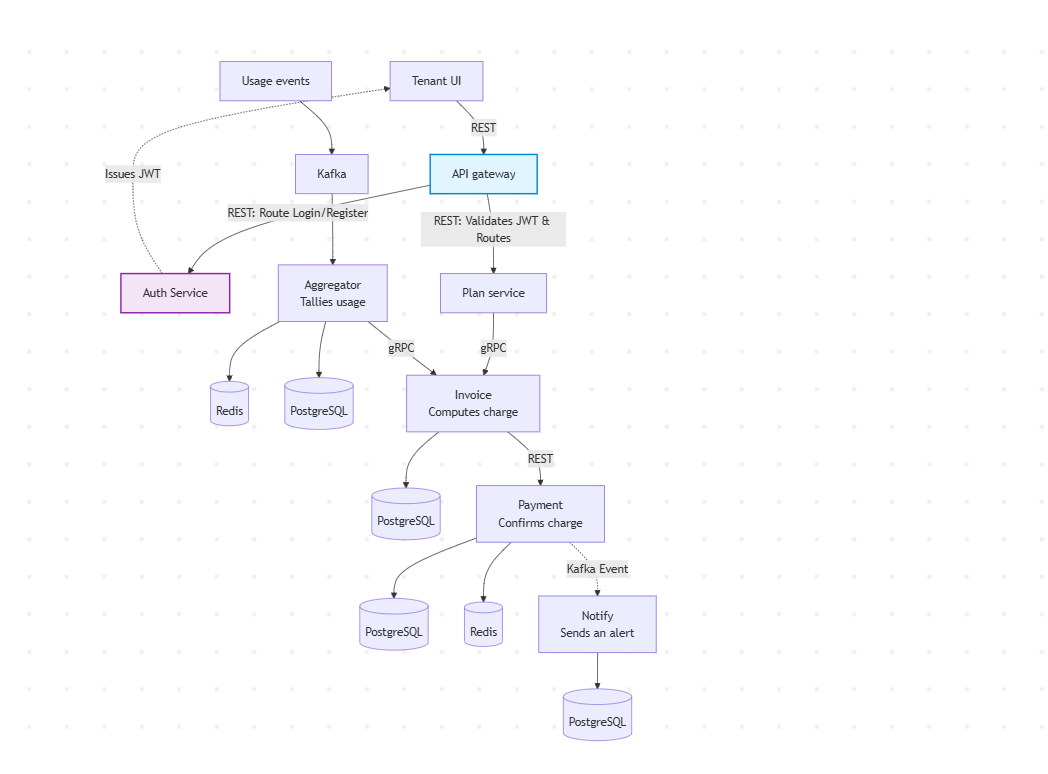
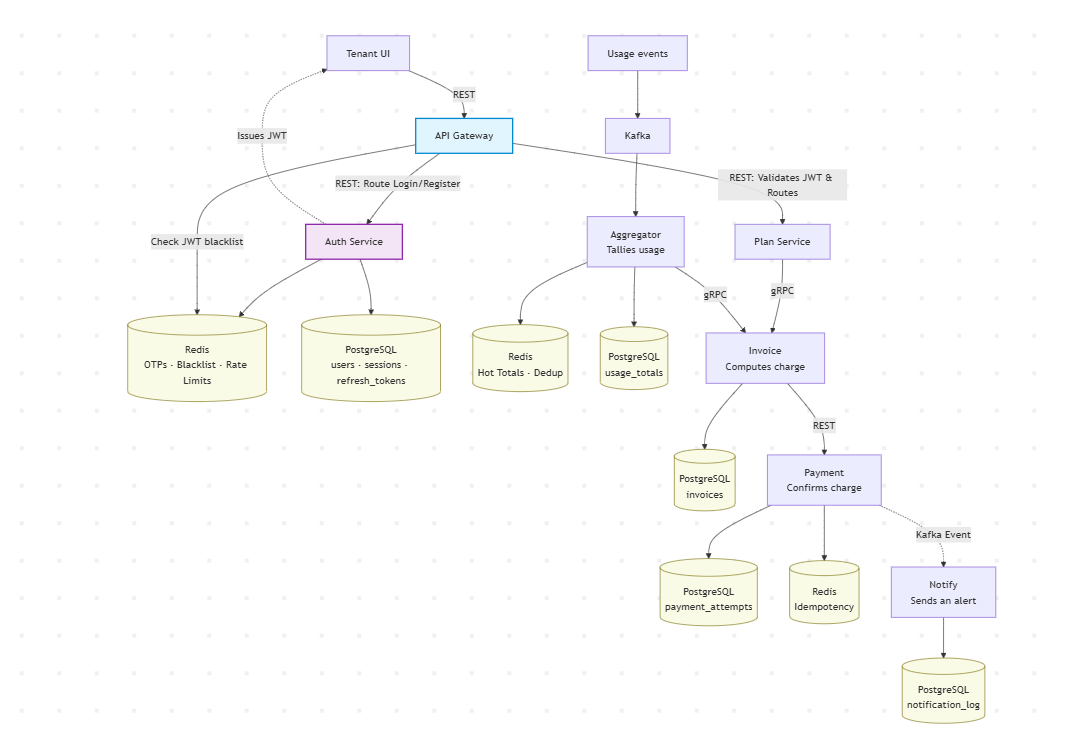
docs: initialize project architecture documentation and design artifacts

diff --git a/docs/DATA_MODEL.md b/docs/DATA_MODEL.md
@@ -1,0 +1,201 @@
+# Data Model — Auth Service
+
+> Designed by the developer after R&D.
+> Covers: PostgreSQL schema, Redis key design, ERDs, and the Forgot Password flow.
+> This document is the source of truth for all tables and keys owned by the `auth` schema.
+
+---
+
+## Design Philosophy — What Lives Where
+
+| Data Type | Storage | Reason |
+|---|---|---|
+| User identity, sessions, tokens | PostgreSQL | Permanent, relational, needs ACID |
+| OTPs, rate limits, JWT blacklist | Redis | Temporary, auto-expiry, fast |
+
+---
+
+## Redis Design
+
+### Why Redis for OTPs
+
+Think of Redis like a **whiteboard with a timer**. You write something on it, set a countdown, and it erases itself automatically. PostgreSQL is a filing cabinet — great for permanent records, overkill for a 10-minute OTP.
+
+| Concern | PostgreSQL | Redis |
+|---|---|---|
+| Auto-expiry | You query `expires_at > NOW()` manually | TTL built-in, key deletes itself |
+| Speed | Disk-based, slower | In-memory, microseconds |
+| Cleanup job needed | Yes, old rows pile up | No, Redis handles it |
+| OTP attempt count | Extra column + update query | `INCR` command, atomic |
+| Right tool for temp data | No | Yes |
+
+### Redis Key Reference Table
+
+| Key | Value | TTL | Purpose |
+|---|---|---|---|
+| `otp:pwd_reset:{userId}` | bcrypt hash of OTP | 10 min | Password reset OTP |
+| `otp:pwd_reset:{userId}:attempts` | integer count | 10 min | Wrong attempt counter |
+| `otp:email_verify:{userId}` | bcrypt hash of OTP | 24 hrs | Email verification OTP |
+| `otp:email_verify:{userId}:attempts` | integer count | 24 hrs | Wrong attempt counter |
+| `rate_limit:{userId}:otp` | `1` | 2 min | Resend throttle (NX flag) |
+| `blacklist:access:{jti}` | `1` | remaining JWT lifetime | Logout / token revocation |
+
+Consistent prefix pattern (`otp:`, `rate_limit:`, `blacklist:`) makes it easy to scan, debug, and set different eviction policies per prefix if needed.
+
+### How Each Key Works
+
+**OTP storage** — Stored as a bcrypt hash (never raw). On resend, same key is overwritten.
+```
+SET otp:pwd_reset:{userId}  "$2a$10$hashedOtpHere"  EX 600
+```
+
+**Attempt counter** — INCR is atomic. No race conditions.
+```
+INCR otp:pwd_reset:{userId}:attempts   ← each wrong attempt
+GET  otp:pwd_reset:{userId}:attempts   ← check if >= 5
+```
+
+**Rate limiter** — NX = only set if key does NOT exist.
+```
+SET rate_limit:{userId}:otp  1  EX 120  NX
+```
+- First request within 2 min → key doesn't exist → allow
+- Second request within 2 min → key exists → 429 Too Many Requests
+
+**JWT blacklist** — Stores the `jti` (JWT ID) of a logged-out token. TTL = exact remaining seconds on the JWT so no memory is wasted.
+```
+SET blacklist:access:{jti}  1  EX {remaining_seconds}
+```
+
+---
+
+## PostgreSQL Schema (`auth` schema)
+
+> ⚠️ **Note:** `password_reset_otps` and `email_verification_otps` tables do NOT exist.
+> Redis owns all OTP data. PostgreSQL only holds permanent records.
+
+```sql
+-- Core identity
+CREATE TABLE users (
+    id                UUID         PRIMARY KEY DEFAULT gen_random_uuid(),
+    username          VARCHAR(50)  NOT NULL UNIQUE,
+    email             VARCHAR(255) NOT NULL UNIQUE,
+    password_hash     VARCHAR(255) NOT NULL,
+    tenant_id         VARCHAR(100) NOT NULL,           -- Multi-tenant: which tenant this user belongs to
+    role              VARCHAR(50)  NOT NULL,            -- 'PLATFORM_ADMIN' or 'TENANT_ADMIN'
+    is_email_verified BOOLEAN      NOT NULL DEFAULT FALSE,
+    is_active         BOOLEAN      NOT NULL DEFAULT TRUE,
+    created_at        TIMESTAMP    NOT NULL DEFAULT NOW(),
+    updated_at        TIMESTAMP    NOT NULL DEFAULT NOW()
+);
+
+-- Long-lived login tokens, one per device
+CREATE TABLE refresh_tokens (
+    id           UUID         PRIMARY KEY DEFAULT gen_random_uuid(),
+    user_id      UUID         NOT NULL REFERENCES users(id),
+    token_hash   VARCHAR(255) NOT NULL,
+    device_info  VARCHAR(255),
+    ip_address   VARCHAR(50),
+    is_revoked   BOOLEAN      NOT NULL DEFAULT FALSE,
+    expires_at   TIMESTAMP    NOT NULL,
+    created_at   TIMESTAMP    NOT NULL DEFAULT NOW()
+);
+
+-- Active login sessions (one per device per user)
+CREATE TABLE sessions (
+    id               UUID         PRIMARY KEY DEFAULT gen_random_uuid(),
+    user_id          UUID         NOT NULL REFERENCES users(id),
+    refresh_token_id UUID         NOT NULL REFERENCES refresh_tokens(id),
+    user_agent       VARCHAR(500),
+    ip_address       VARCHAR(50),
+    last_active_at   TIMESTAMP    NOT NULL DEFAULT NOW(),
+    created_at       TIMESTAMP    NOT NULL DEFAULT NOW()
+);
+
+-- Issued after OTP verified — gates the actual password change
+CREATE TABLE password_reset_sessions (
+    id                 UUID         PRIMARY KEY DEFAULT gen_random_uuid(),
+    user_id            UUID         NOT NULL REFERENCES users(id),
+    session_token_hash VARCHAR(255) NOT NULL,
+    is_used            BOOLEAN      NOT NULL DEFAULT FALSE,
+    expires_at         TIMESTAMP    NOT NULL,  -- 15 minutes
+    created_at         TIMESTAMP    NOT NULL DEFAULT NOW()
+);
+```
+
+### ERD — PostgreSQL
+
+```mermaid
+erDiagram
+  users {
+    uuid id PK
+    varchar username UK
+    varchar email UK
+    varchar password_hash
+    varchar tenant_id
+    varchar role
+    boolean is_email_verified
+    boolean is_active
+    timestamp created_at
+    timestamp updated_at
+  }
+
+  refresh_tokens {
+    uuid id PK
+    uuid user_id FK
+    varchar token_hash
+    varchar device_info
+    varchar ip_address
+    boolean is_revoked
+    timestamp expires_at
+    timestamp created_at
+  }
+
+  sessions {
+    uuid id PK
+    uuid user_id FK
+    uuid refresh_token_id FK
+    varchar user_agent
+    varchar ip_address
+    timestamp last_active_at
+    timestamp created_at
+  }
+
+  password_reset_sessions {
+    uuid id PK
+    uuid user_id FK
+    varchar session_token_hash
+    boolean is_used
+    timestamp expires_at
+    timestamp created_at
+  }
+
+  users ||--o{ refresh_tokens : "has"
+  users ||--o{ sessions : "has"
+  users ||--o{ password_reset_sessions : "has"
+  refresh_tokens ||--o| sessions : "linked to"
+```
+
+---
+
+## Forgot Password Flow
+
+**Step 1** — `POST /auth/forgot-password` → body: `{ username }`
+- Look up user by username → get their email
+- Generate 6-digit OTP → hash it → store in Redis with 10 min TTL
+- Send OTP to user's email
+- Response: `{ message: "OTP sent" }` — never reveal the email in response
+
+**Step 2** — `POST /auth/verify-otp` → body: `{ username, otp }`
+- Fetch `otp:pwd_reset:{userId}` from Redis
+- Hash submitted OTP → compare with stored hash
+- If wrong: `INCR` attempts counter → if `>= 5` delete both keys (force resend)
+- If correct: delete both keys → generate `reset_session_token` → store hash in `password_reset_sessions` (15 min)
+- Response: `{ reset_session_token: "raw-token" }`
+
+**Step 3** — `POST /auth/reset-password` → body: `{ reset_session_token, new_password }`
+- Look up `password_reset_sessions` by token hash → verify not used and not expired
+- Hash new password → `UPDATE users SET password_hash = ?`
+- Mark session token as `is_used = true`
+- Revoke all refresh tokens for this user (force logout everywhere)
+- Response: `{ message: "Password updated" }`

diff --git a/docs/DECISIONS.md b/docs/DECISIONS.md
@@ -357,5 +357,84 @@ Use **Flyway** for all database schema migrations in production and shared envir
 
 ---
 
+## ADR-014 — OTP Storage: Redis (not PostgreSQL)
+
+**Date:** June 2026
+**Status:** ✅ Accepted
+
+### Decision
+All OTP data (password reset OTPs, email verification OTPs, attempt counters) is stored in Redis — not in PostgreSQL tables.
+
+### Reasoning
+- OTPs are inherently temporary. Redis TTL handles expiry automatically — no cleanup job needed.
+- Attempt counters use Redis `INCR`, which is atomic — no race conditions.
+- PostgreSQL would require a cleanup job, an `expires_at` query on every check, and extra columns.
+- Redis is the right tool for short-lived, high-speed, auto-expiring data.
+
+### Rejected Alternatives
+- **PostgreSQL `otps` table:** Rejected — overkill for temporary data. Requires manual cleanup and is slower.
+
+---
+
+## ADR-015 — JWT Revocation: Redis Blacklist via JTI
+
+**Date:** June 2026
+**Status:** ✅ Accepted
+
+### Decision
+On logout, store the JWT's `jti` (JWT ID) in Redis with a TTL equal to the token's remaining lifetime. Every request checks if the `jti` is blacklisted before trusting the token.
+
+### Reasoning
+- JWTs are stateless by nature — once issued, they're valid until expiry. Without a revocation mechanism, a stolen or logged-out token can still be used.
+- Storing only the `jti` (not the full token) is memory-efficient.
+- TTL = remaining lifetime = zero wasted memory after the token would have expired naturally.
+- This is the industry-standard pattern for JWT logout in stateless systems.
+
+### Consequences
+- The API Gateway must check Redis blacklist on every authenticated request (one `GET` call — sub-millisecond).
+- This adds a tiny Redis dependency to the Gateway, but it's necessary for proper security.
+
+---
+
+## ADR-016 — Refresh Token + Session Management
+
+**Date:** June 2026
+**Status:** ✅ Accepted
+
+### Decision
+Implement long-lived refresh tokens stored in the `refresh_tokens` table (one per device), paired with active session tracking in the `sessions` table.
+
+### Reasoning
+- Short-lived access tokens (15-30 min) + long-lived refresh tokens is the industry standard.
+- Storing `device_info` and `ip_address` enables per-device logout and suspicious login detection.
+- `is_revoked` flag allows targeted revocation (e.g., logout from all devices on password reset).
+- Sessions table tracks `last_active_at` for 25k+ user activity monitoring.
+
+### Consequences
+- On password reset, all refresh tokens for the user are revoked — forces re-login on all devices.
+- Refresh token rotation can be added as a future enhancement (v2).
+
+---
+
+## ADR-017 — Password Reset: Three-Step Flow with Session Token
+
+**Date:** June 2026
+**Status:** ✅ Accepted
+
+### Decision
+Password reset uses a 3-step flow: (1) Request OTP → (2) Verify OTP → get a short-lived `reset_session_token` → (3) Use token to set new password.
+
+### Reasoning
+- Combining OTP verification and password change in one step is less secure. An attacker who intercepts the OTP can immediately change the password.
+- The intermediate `password_reset_sessions` token gates the actual password change — it's a one-time-use token valid for 15 minutes only.
+- `is_used = true` flag prevents replay attacks.
+- This mirrors how Stripe, GitHub, and other production systems handle password resets.
+
+### Consequences
+- Three API endpoints are required: `/auth/forgot-password`, `/auth/verify-otp`, `/auth/reset-password`.
+- `password_reset_sessions` rows for used/expired tokens can be cleaned up by a scheduled job later.
+
+---
+
 *Add a new ADR every time a significant design decision is made.*
 *Even "we decided NOT to do X" decisions are worth recording.*

diff --git a/docs/ARCHITECTURE.md b/docs/ARCHITECTURE.md
@@ -56,36 +56,41 @@ its own subscription plan, and its own usage quotas.
 ```mermaid
 flowchart TD
     %% UI and Event Ingestion
-    UI[Tenant UI] -->|REST| GW[API gateway]
+    UI[Tenant UI] -->|REST| GW[API Gateway]
     Events[Usage events] --> K[Kafka]
 
-    %% NEW: Auth Service 
+    %% Auth Service — uses both Redis and PostgreSQL
     GW -->|REST: Route Login/Register| Auth[Auth Service]
     Auth -.->|Issues JWT| UI
+    Auth --> RedisAuth[(Redis\nOTPs · Blacklist · Rate Limits)]
+    Auth --> DBAuth[(PostgreSQL\nusers · sessions · refresh_tokens)]
 
     %% Core Services
-    GW -->|REST: Validates JWT & Routes| Plan[Plan service]
-    
+    GW -->|REST: Validates JWT & Routes| Plan[Plan Service]
+    GW -->|Check JWT blacklist| RedisAuth
+
     K --> Agg[Aggregator\nTallies usage]
-    Agg --> RedisAgg[(Redis)]
-    Agg --> DBAgg[(PostgreSQL)]
+    Agg --> RedisAgg[(Redis\nHot Totals · Dedup)]
+    Agg --> DBAgg[(PostgreSQL\nusage_totals)]
 
     Plan -->|gRPC| Inv[Invoice\nComputes charge]
     Agg -->|gRPC| Inv
-    Inv --> DBInv[(PostgreSQL)]
+    Inv --> DBInv[(PostgreSQL\ninvoices)]
 
     Inv -->|REST| Pay[Payment\nConfirms charge]
-    Pay --> DBPay[(PostgreSQL)]
-    Pay --> RedisPay[(Redis)]
+    Pay --> DBPay[(PostgreSQL\npayment_attempts)]
+    Pay --> RedisPay[(Redis\nIdempotency)]
 
     Pay -.->|Kafka Event| Notify[Notify\nSends an alert]
-    Notify --> DBNotif[(PostgreSQL)]
-    
+    Notify --> DBNotif[(PostgreSQL\nnotification_log)]
+
     %% Styling
     classDef gateway fill:#e1f5fe,stroke:#0288d1,stroke-width:2px;
-    classDef newService fill:#f3e5f5,stroke:#8e24aa,stroke-width:2px;
+    classDef authService fill:#f3e5f5,stroke:#8e24aa,stroke-width:2px;
+    classDef store fill:#f9fbe7,stroke:#827717,stroke-width:1px;
     class GW gateway;
-    class Auth newService;
+    class Auth authService;
+    class RedisAuth,DBAuth,RedisAgg,DBAgg,DBInv,DBPay,RedisPay,DBNotif store;
 ```
 
 ### Reading the diagram
@@ -142,9 +147,11 @@ Issues JWT on login/register        Plans, Subscriptions, State Machine
 ### 3.2 Auth Service
 | | |
 |---|---|
-| **Tech** | Java 21, Spring Boot 3.x, Spring Security, PostgreSQL |
+| **Tech** | Java 21, Spring Boot 3.x, Spring Security, PostgreSQL, Redis |
 | **Port** | 8085 (internal only) |
-| **Responsibilities** | User registration, login, JWT signing (HS256), password hashing (BCrypt) |
+| **Responsibilities** | User registration, login, JWT issuance (HS256 + `jti`), password hashing (BCrypt), email verification OTP, password reset (3-step flow), refresh token management, JWT blacklist on logout |
+| **PostgreSQL tables** | `users`, `refresh_tokens`, `sessions`, `password_reset_sessions` |
+| **Redis keys** | `otp:*` (OTPs), `blacklist:access:*` (JWT revocation), `rate_limit:*` (resend throttle) |
 | **Maven module** | `services/auth-service` |
 
 ### 3.3 Billing Service
@@ -359,7 +366,7 @@ Each service owns its own **schema** (logical isolation within the same PostgreS
 
 | Schema | Service | Key Tables |
 |---|---|---|
-| `auth` | Auth Service | `users` |
+| `auth` | Auth Service | `users`, `refresh_tokens`, `sessions`, `password_reset_sessions` |
 | `billing` | Billing Service | `plans`, `plan_versions`, `subscriptions`, `audit_logs` |
 | `usage` | Usage Aggregator | `usage_totals`, `usage_events_raw` (optional archive) |
 | `invoice` | Invoice Service | `invoices`, `invoice_line_items` |
@@ -371,9 +378,18 @@ Each service owns its own **schema** (logical isolation within the same PostgreS
 
 ### Redis
 
-Used by Usage Aggregator only:
+**Auth Service:**
+- **OTP store:** `otp:pwd_reset:{userId}`, `otp:email_verify:{userId}` → bcrypt hash (TTL: 10 min / 24 hrs)
+- **Attempt counters:** `otp:pwd_reset:{userId}:attempts` → integer, atomic INCR (same TTL as OTP)
+- **Rate limiter:** `rate_limit:{userId}:otp` → `1`, NX flag (TTL: 2 min)
+- **JWT blacklist:** `blacklist:access:{jti}` → `1` (TTL: remaining JWT lifetime)
+
+**Usage Aggregator:**
 - **Hot usage totals:** `usage:{tenant_id}:{cycle}:{metric}` → integer counter
 - **Deduplication set:** `dedup:{event_id}` → exists or not (TTL: 7 days)
+
+**Payment Service:**
+- **Idempotency cache:** Short-lived keys to prevent double-processing of webhook events
 
 ### Kafka
 